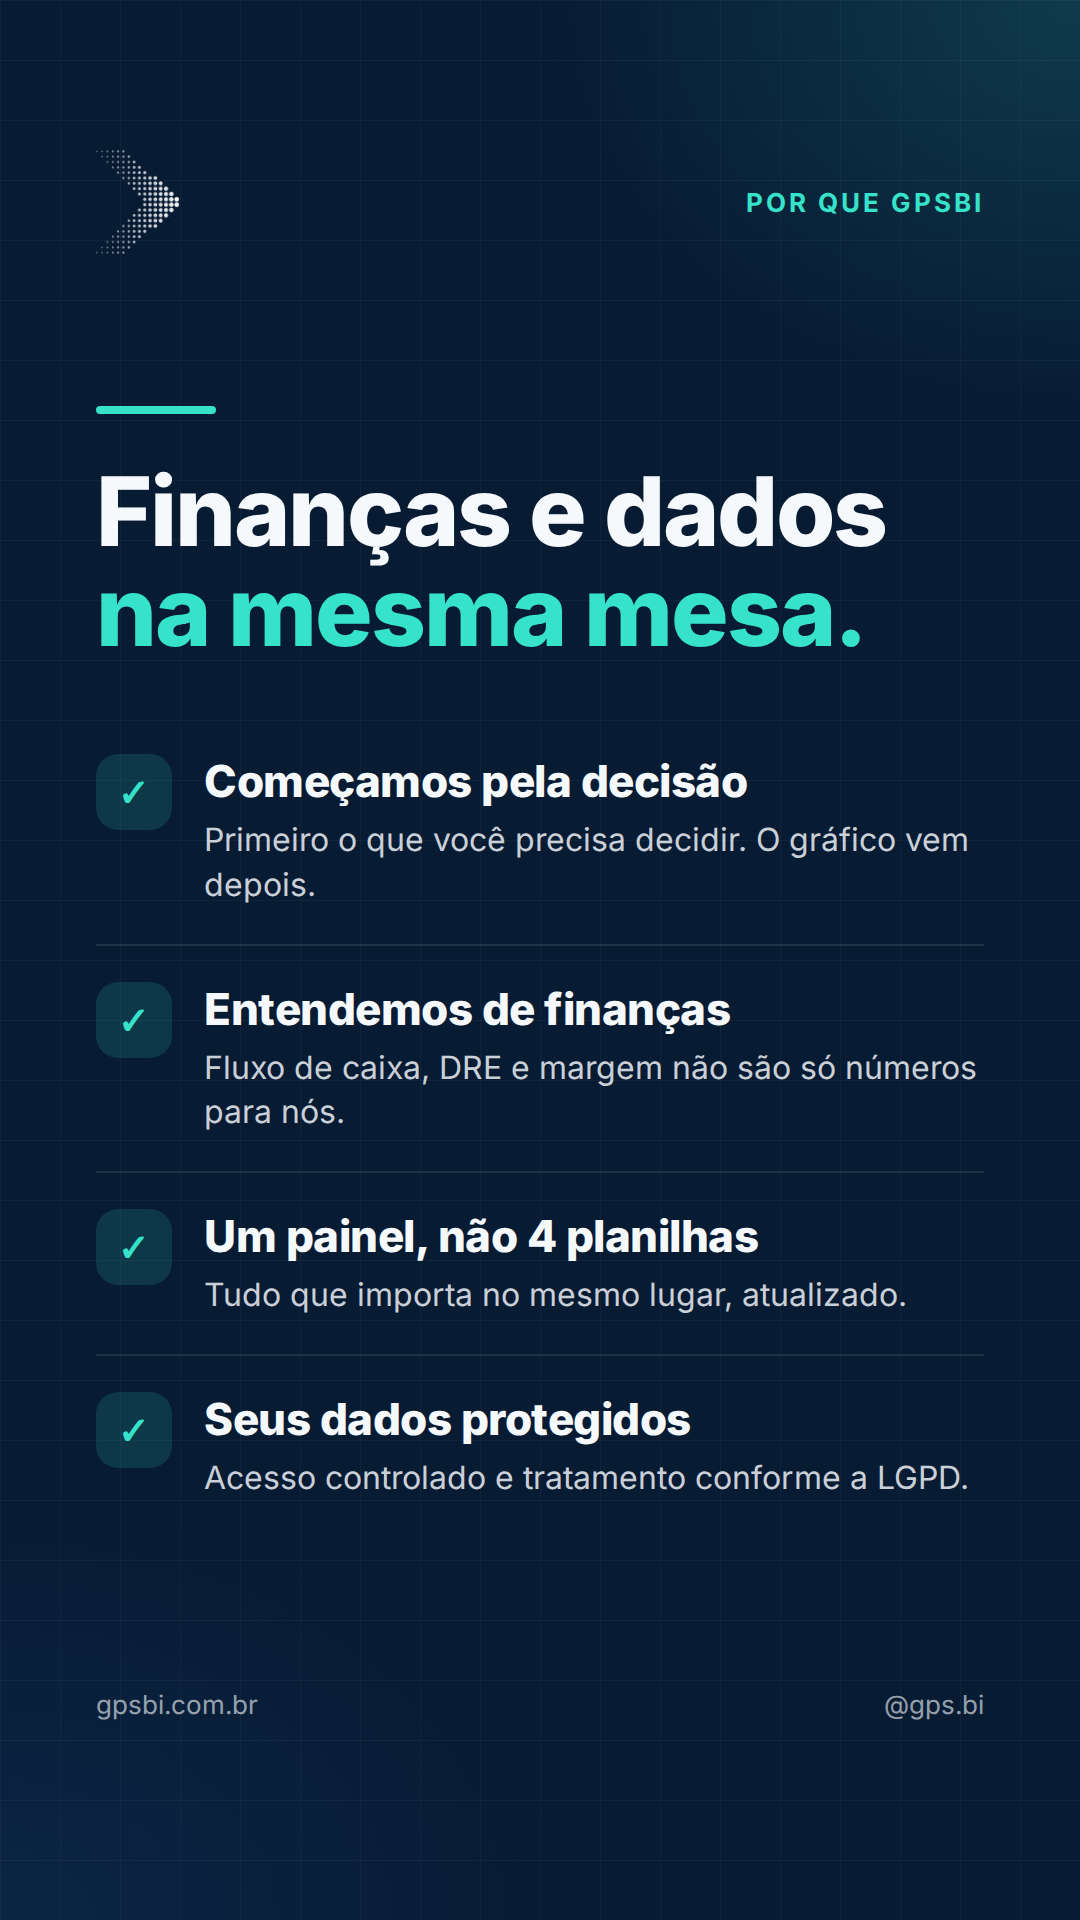
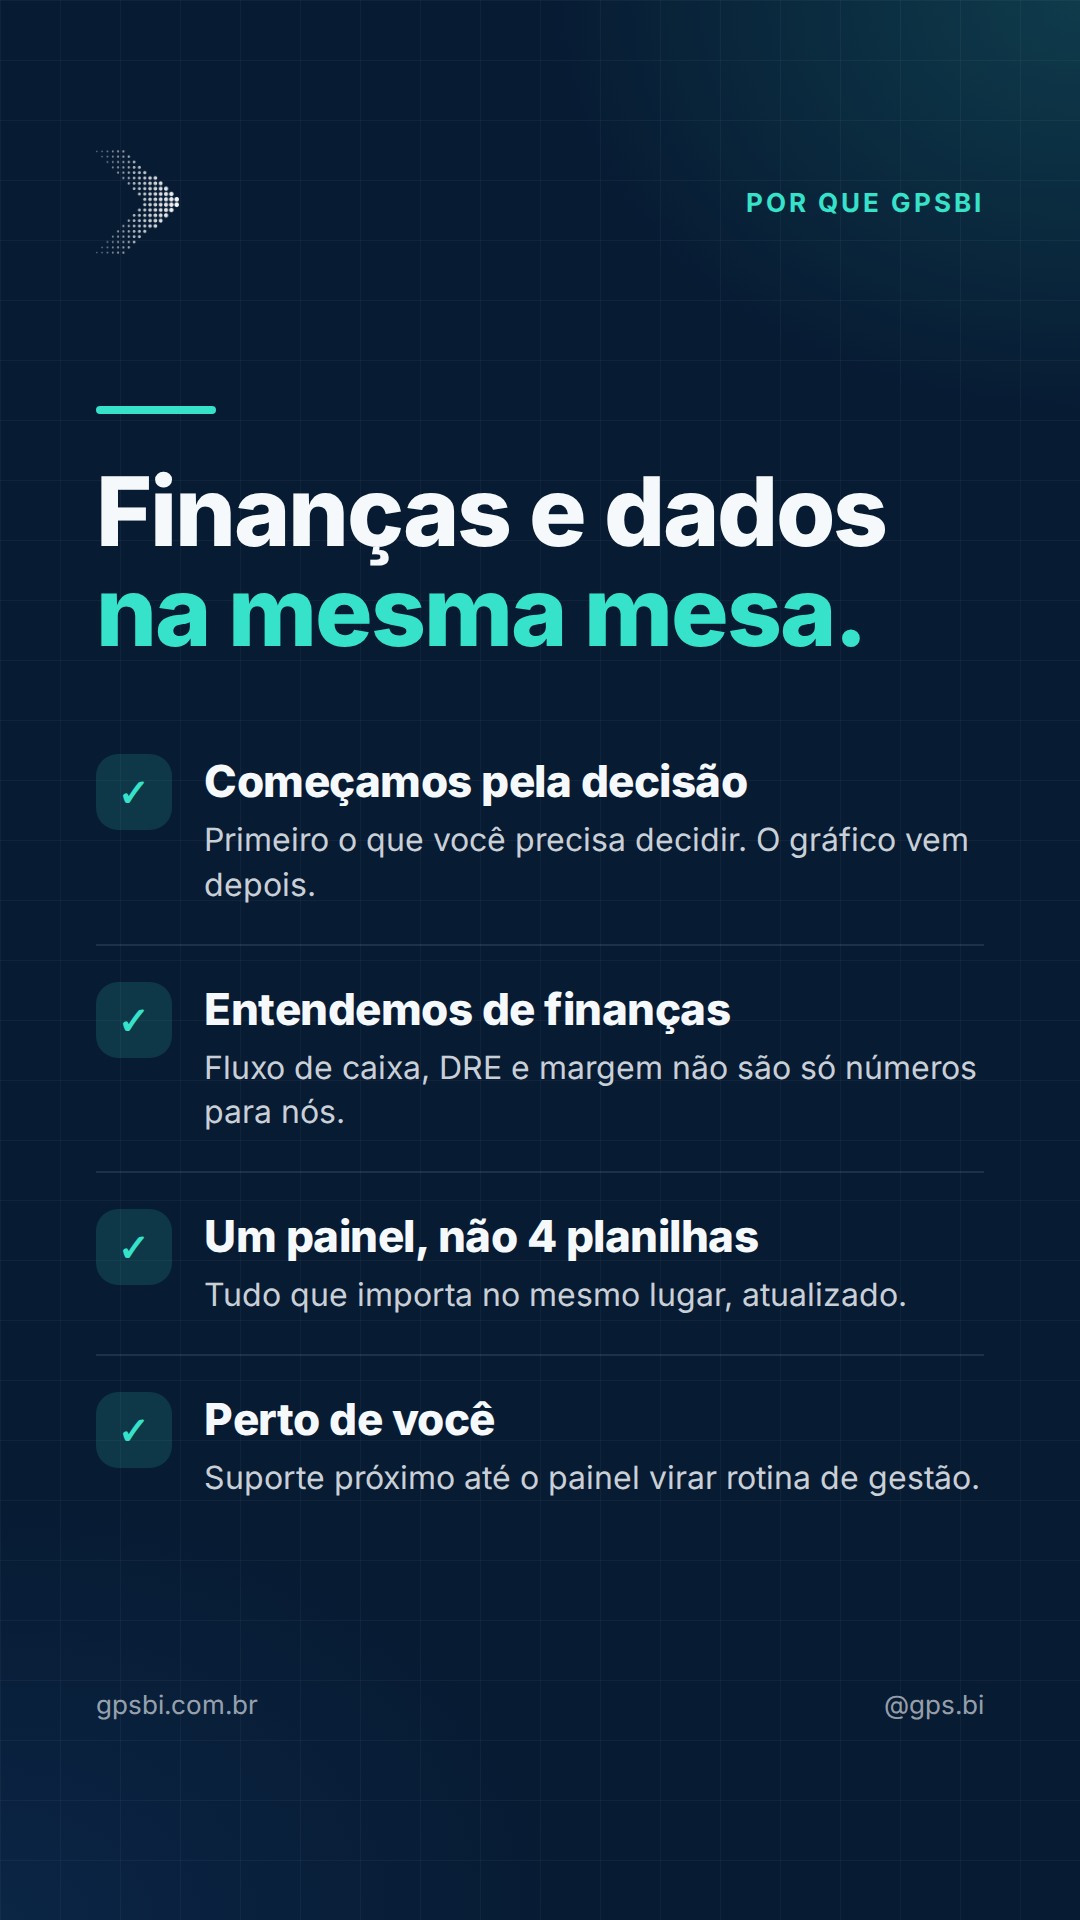
Story Por que GPSBI sem afirmação de LGPD
Claude-Session: https://claude.ai/code/session_01NSNdFePUStsddCb35eq25C

Changed region(s): [[0.1833, 0.7188, 0.8861, 0.7812]]

diff --git a/tools/destaques.py b/tools/destaques.py
@@ -45,7 +45,7 @@ STORIES = {
    ("✓", "Começamos pela decisão", "Primeiro o que você precisa decidir. O gráfico vem depois."),
    ("✓", "Entendemos de finanças", "Fluxo de caixa, DRE e margem não são só números para nós."),
    ("✓", "Um painel, não 4 planilhas", "Tudo que importa no mesmo lugar, atualizado."),
-   ("✓", "Seus dados protegidos", "Acesso controlado e tratamento conforme a LGPD."),
+   ("✓", "Perto de você", "Suporte próximo até o painel virar rotina de gestão."),
  ]) + "</div>"),
  "4_contato": story("Contato", '<div class=bar></div><h1>Diagnóstico <em>gratuito.</em></h1><p>Uma conversa para entender seus números e onde um painel faz diferença na sua gestão.</p>'
    '<p style="margin-top:80px">Chama no WhatsApp:</p><div class=big>(11) 99812-5961</div>'
